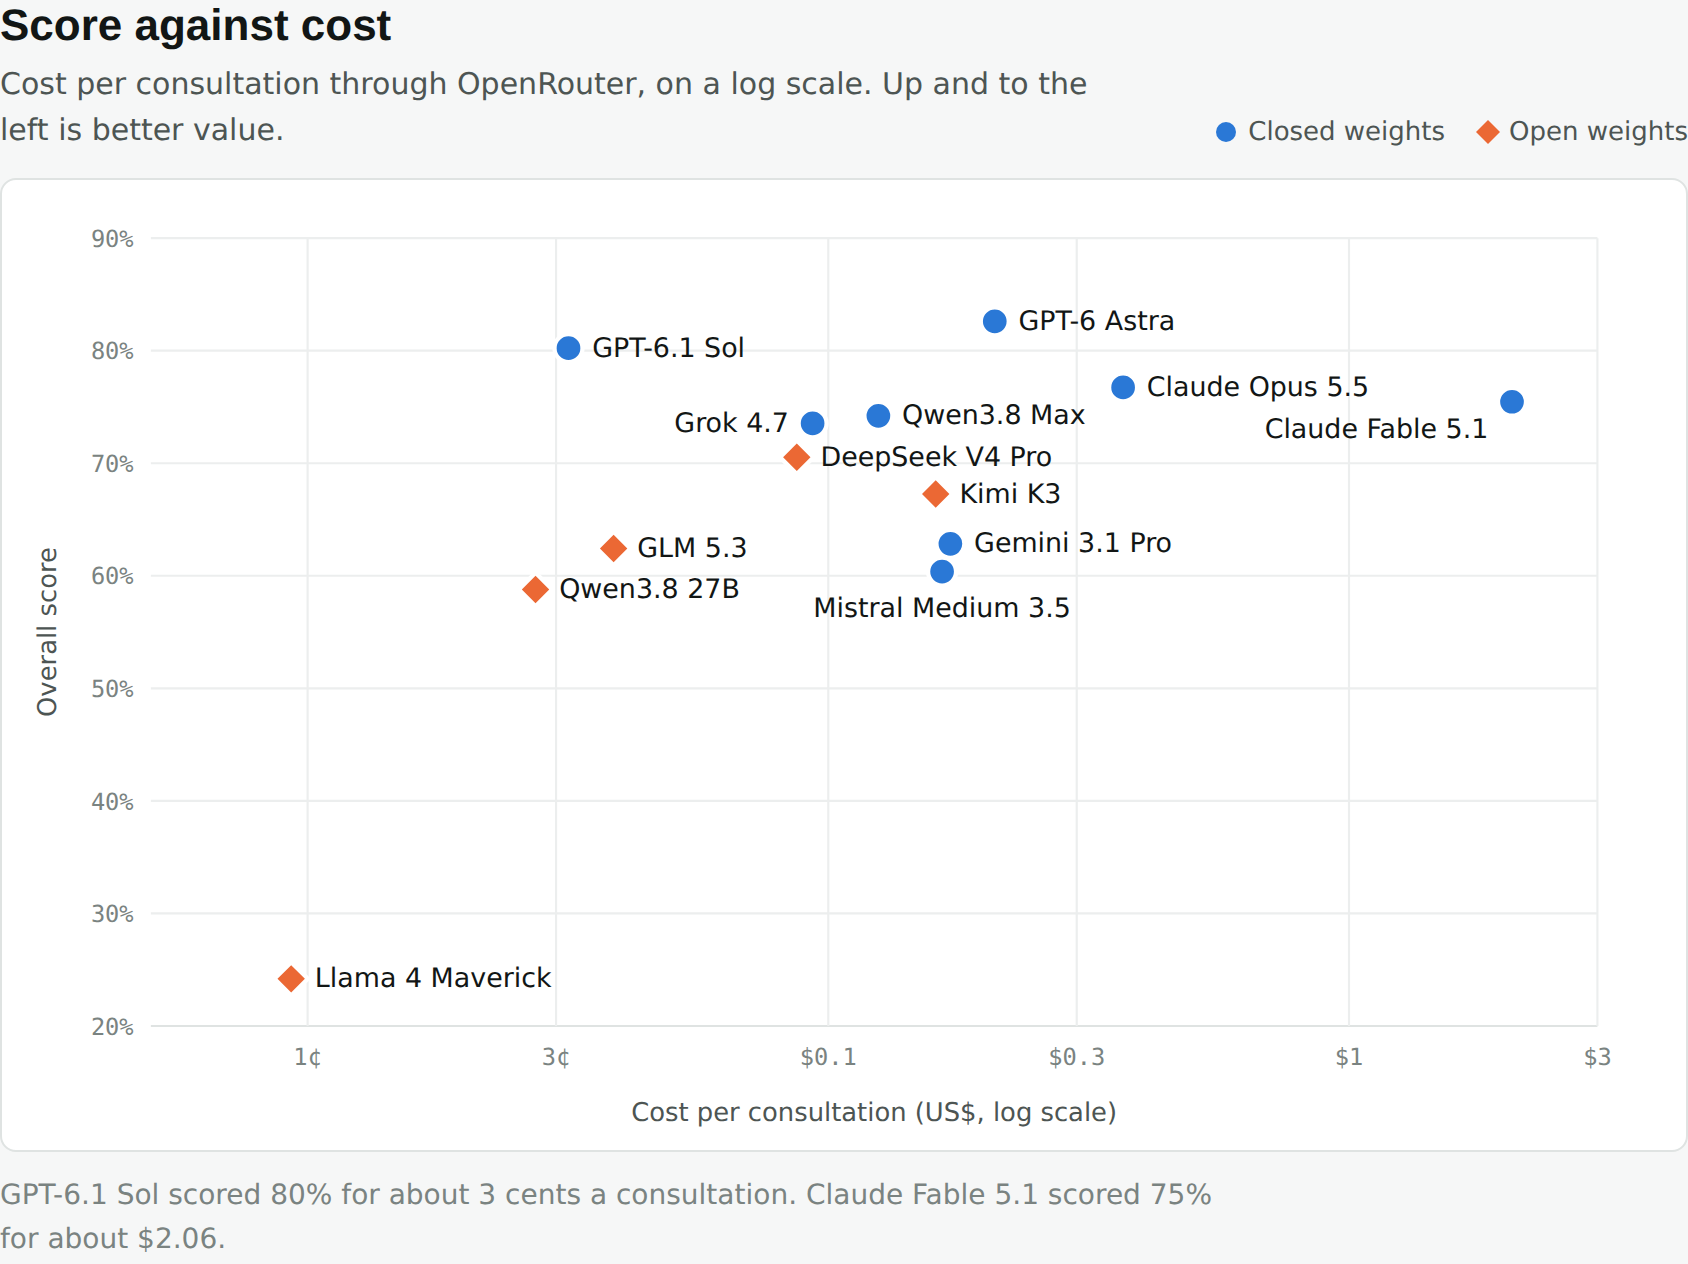
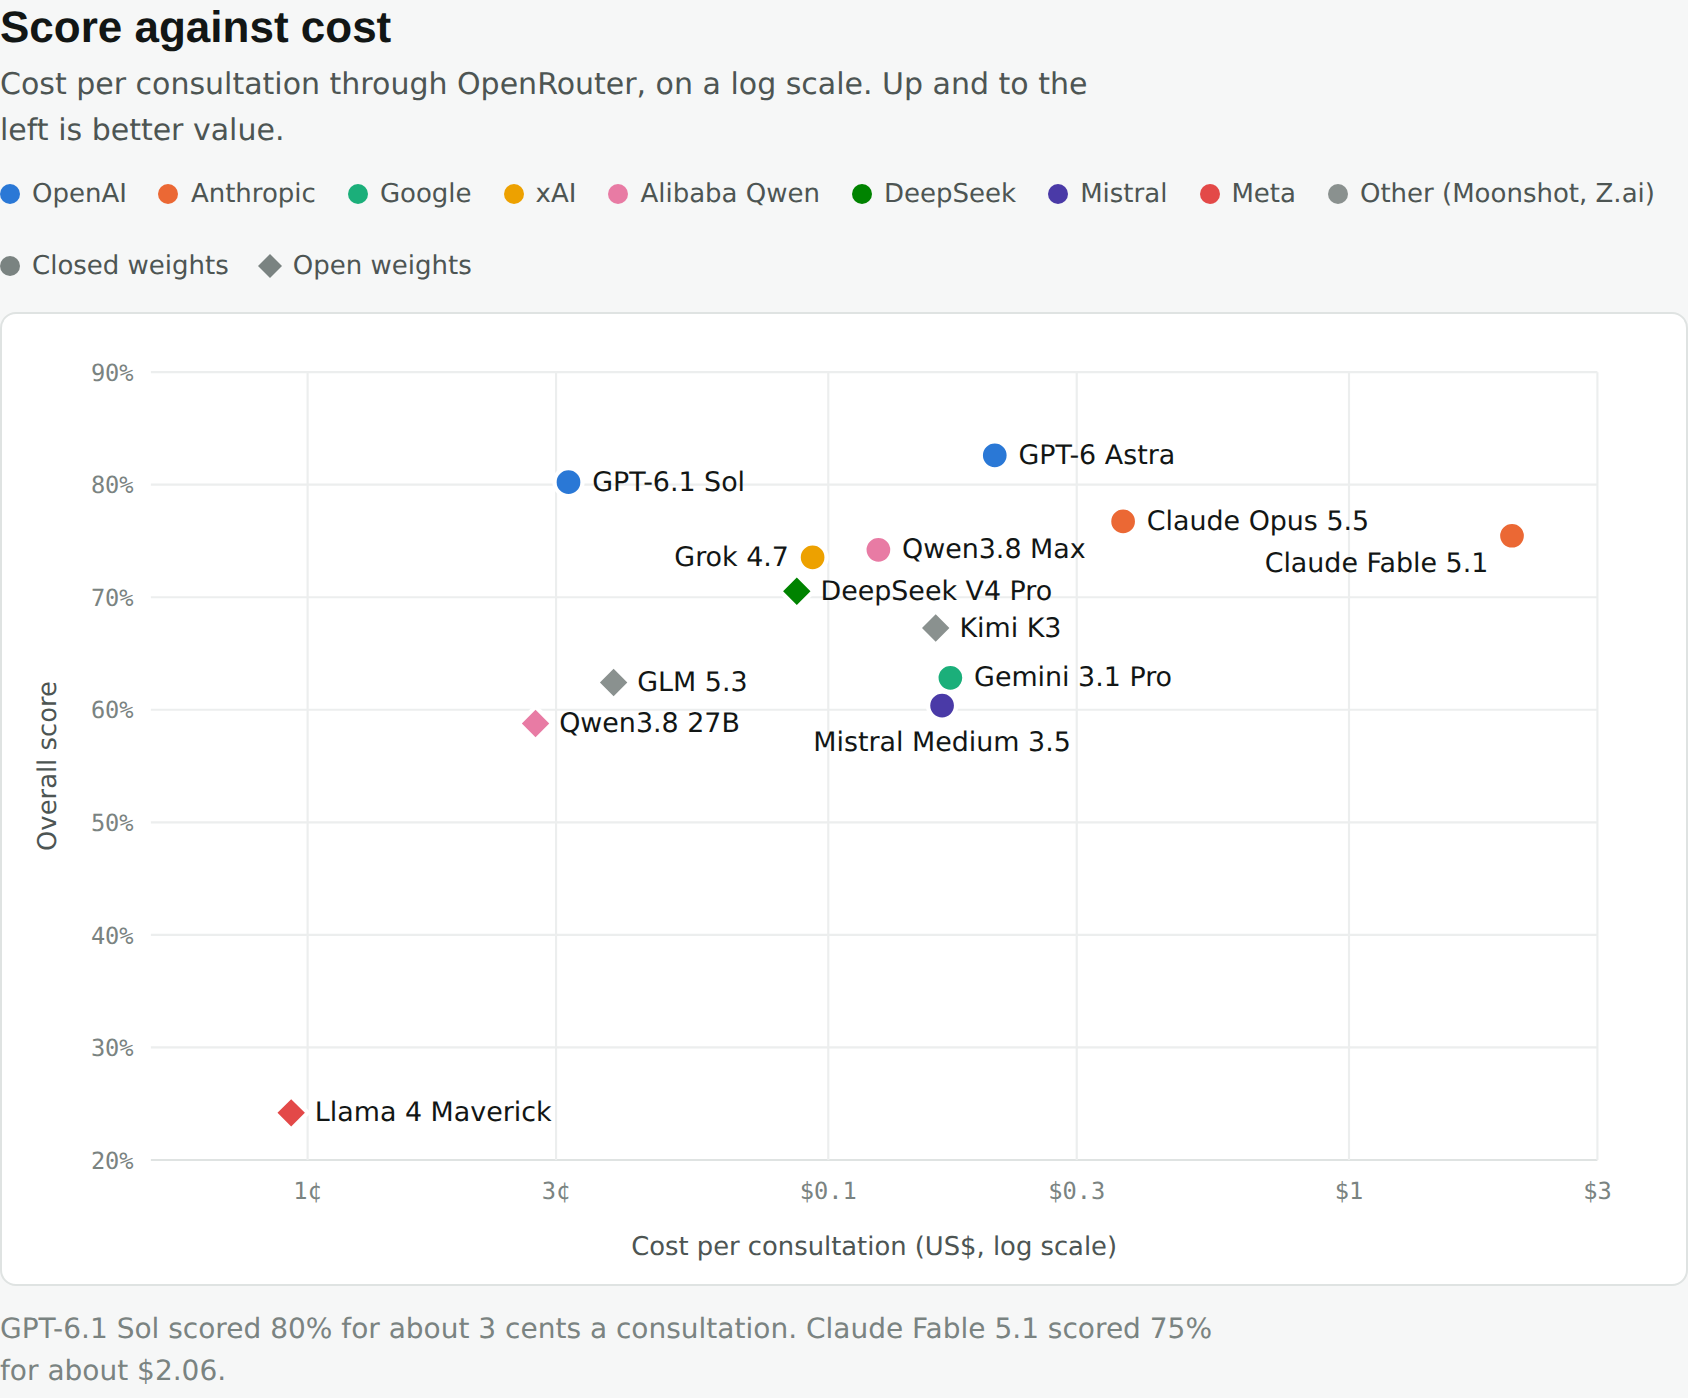
Charts: colour by company (OpenAI blue, Anthropic orange, ...)
Claude-Session: https://claude.ai/code/session_01JUWZddD7r1dn6mv7PYkidq

diff --git a/docs/index.html b/docs/index.html
@@ -9,6 +9,7 @@
   --rule: #dfe3e2; --grid: #eceeee;
   --closed: #2a78d6; --open: #eb6834; --bad: #c4302b;
   --seq-0: #eef4fc; --seq-1: #cde2fb; --seq-2: #9ec5f4; --seq-3: #5598e7; --seq-4: #256abf; --seq-5: #104281;
+  --lab-openai: #2a78d6; --lab-anthropic: #eb6834; --lab-google: #1baf7a; --lab-xai: #eda100; --lab-qwen: #e87ba4; --lab-deepseek: #008300; --lab-mistral: #4a3aa7; --lab-meta: #e34948; --lab-other: #8a918f;
   --t0: #121615; --t1: #121615; --t2: #121615; --t3: #ffffff; --t4: #ffffff; --t5: #ffffff;
   --display: "Bricolage Grotesque", "Avenir Next", "Segoe UI", sans-serif;
   --body: "Atkinson Hyperlegible", "Segoe UI", system-ui, sans-serif;
@@ -18,12 +19,14 @@
   --bg: #121514; --surface: #1a1e1d; --ink: #eef1f0; --ink-2: #b4bcba; --ink-3: #87908e;
   --rule: #2d3332; --grid: #252a29; --closed: #3987e5; --open: #d95926; --bad: #e66767;
   --seq-0: #1b2633; --seq-1: #13304f; --seq-2: #184f95; --seq-3: #2a78d6; --seq-4: #5598e7; --seq-5: #9ec5f4;
+  --lab-openai: #3987e5; --lab-anthropic: #d95926; --lab-google: #199e70; --lab-xai: #c98500; --lab-qwen: #d55181; --lab-deepseek: #008300; --lab-mistral: #9085e9; --lab-meta: #e66767; --lab-other: #7f8784;
   --t0: #eef1f0; --t1: #eef1f0; --t2: #ffffff; --t3: #ffffff; --t4: #0d1a2b; --t5: #0d1a2b;
   color-scheme: dark; } }
 :root[data-theme="dark"] {
   --bg: #121514; --surface: #1a1e1d; --ink: #eef1f0; --ink-2: #b4bcba; --ink-3: #87908e;
   --rule: #2d3332; --grid: #252a29; --closed: #3987e5; --open: #d95926; --bad: #e66767;
   --seq-0: #1b2633; --seq-1: #13304f; --seq-2: #184f95; --seq-3: #2a78d6; --seq-4: #5598e7; --seq-5: #9ec5f4;
+  --lab-openai: #3987e5; --lab-anthropic: #d95926; --lab-google: #199e70; --lab-xai: #c98500; --lab-qwen: #d55181; --lab-deepseek: #008300; --lab-mistral: #9085e9; --lab-meta: #e66767; --lab-other: #7f8784;
   --t0: #eef1f0; --t1: #eef1f0; --t2: #ffffff; --t3: #ffffff; --t4: #0d1a2b; --t5: #0d1a2b;
   color-scheme: dark; }
 body { background: var(--bg); color: var(--ink); font: 16px/1.55 var(--body); }
@@ -45,8 +48,10 @@ figure { margin: 0; display: grid; gap: 12px; min-width: 0; }
 figcaption { font-size: 14px; color: var(--ink-3); max-width: 70ch; }
 .legend { display: flex; gap: 16px; font-size: 13px; color: var(--ink-2); align-items: center; flex-wrap: wrap; }
 .legend i { display: inline-block; width: 10px; height: 10px; margin-right: 6px; vertical-align: -1px; }
-.legend .c { background: var(--closed); border-radius: 50%; }
-.legend .o { background: var(--open); transform: rotate(45deg) scale(.85); }
+.legend span { white-space: nowrap; }
+.legend .c { border-radius: 50%; }
+.legend .o { background: var(--ink-3); transform: rotate(45deg) scale(.85); }
+.legend .ring { background: var(--ink-3); border-radius: 50%; }
 svg text { fill: var(--ink-2); font: 12px var(--body); }
 svg .lbl { fill: var(--ink); font-size: 12.5px; }
 svg .num { font: 11.5px var(--mono); fill: var(--ink-2); font-variant-numeric: tabular-nums; }
@@ -89,7 +94,7 @@ a { color: var(--closed); }
   <figure id="f-board">
     <div class="fighead">
       <div><h2>Overall score</h2><p>Mean share of each case's maximum over 15 consultations. The line shows one standard deviation either side.</p></div>
-      <div class="legend"><span><i class="c"></i>Closed weights</span><span><i class="o"></i>Open weights</span></div>
+      <div class="legend" data-legend></div>
     </div>
     <div class="panel"><svg id="board" role="img" aria-label="Bar chart of overall score by model"></svg></div>
   </figure>
@@ -97,7 +102,7 @@ a { color: var(--closed); }
   <figure id="f-cost">
     <div class="fighead">
       <div><h2>Score against cost</h2><p>Cost per consultation through OpenRouter, on a log scale. Up and to the left is better value.</p></div>
-      <div class="legend"><span><i class="c"></i>Closed weights</span><span><i class="o"></i>Open weights</span></div>
+      <div class="legend" data-legend></div>
     </div>
     <div class="panel"><svg id="cost" role="img" aria-label="Scatter plot of score against cost per consultation"></svg></div>
     <figcaption>GPT-6.1 Sol scored 80% for about 3 cents a consultation. Claude Fable 5.1 scored 75% for about $2.06.</figcaption>
@@ -106,7 +111,7 @@ a { color: var(--closed); }
   <figure id="f-flags">
     <div class="fighead">
       <div><h2>Questions asked against red flags caught</h2><p>Red flags are the history items that change management, such as sweating with chest pain. The budget was 50 questions; no model came close.</p></div>
-      <div class="legend"><span><i class="c"></i>Closed weights</span><span><i class="o"></i>Open weights</span></div>
+      <div class="legend" data-legend></div>
     </div>
     <div class="panel"><svg id="flags" role="img" aria-label="Scatter plot of red flags caught against questions asked"></svg></div>
     <figcaption>Models that asked more found more. Claude Opus 5.5 was the most economical of the top group, at 16 questions a consultation.</figcaption>
@@ -154,7 +159,13 @@ const txt = (parent, x, y, s, cls, anchor = "start") => {
   t.textContent = s;
   return t;
 };
-const colour = (m) => (m.open ? "var(--open)" : "var(--closed)");
+const LABS = [["OpenAI", "openai"], ["Anthropic", "anthropic"], ["Google", "google"], ["xAI", "xai"], ["Alibaba Qwen", "qwen"], ["DeepSeek", "deepseek"], ["Mistral", "mistral"], ["Meta", "meta"]];
+const labKey = (m) => (LABS.find(([n]) => n === m.lab) || [null, "other"])[1];
+const colour = (m) => `var(--lab-${labKey(m)})`;
+for (const lg of document.querySelectorAll("[data-legend]")) {
+  lg.innerHTML = [...LABS, ["Other (Moonshot, Z.ai)", "other"]].map(([n, k]) => `<span><i class="c" style="background:var(--lab-${k})"></i>${n}</span>`).join("") +
+    '<span><i class="ring"></i>Closed weights</span><span><i class="o"></i>Open weights</span>';
+}
 const money = (c) => (c < 0.1 ? `${(c * 100).toFixed(1)}¢` : `$${c.toFixed(2)}`);
 
 // Shared tooltip
@@ -201,7 +212,9 @@ function hover(target, m, extra) {
   DATA.forEach((m, i) => {
     const y = top + i * row, cy = y + row / 2;
     const g = el("g", {}, svg);
-    txt(g, left - 10, cy + 4, m.name, "lbl", "end");
+    txt(g, left - 20, cy + 4, m.name, "lbl", "end");
+    if (m.open) el("rect", { x: left - 13, y: cy - 4, width: 8, height: 8, transform: `rotate(45 ${left - 9} ${cy})`, fill: "var(--ink-3)" }, g);
+    else el("circle", { cx: left - 9, cy, r: 4, fill: "var(--ink-3)" }, g);
     const w = x(m.score) - left;
     el("path", { d: `M${left},${cy - 7} h${w - 3} a3,3 0 0 1 3,3 v8 a3,3 0 0 1 -3,3 h${-(w - 3)} z`, fill: colour(m), class: "bar" }, g);
     const lo = x(Math.max(0, m.score - m.sd)), hi = x(Math.min(100, m.score + m.sd));
